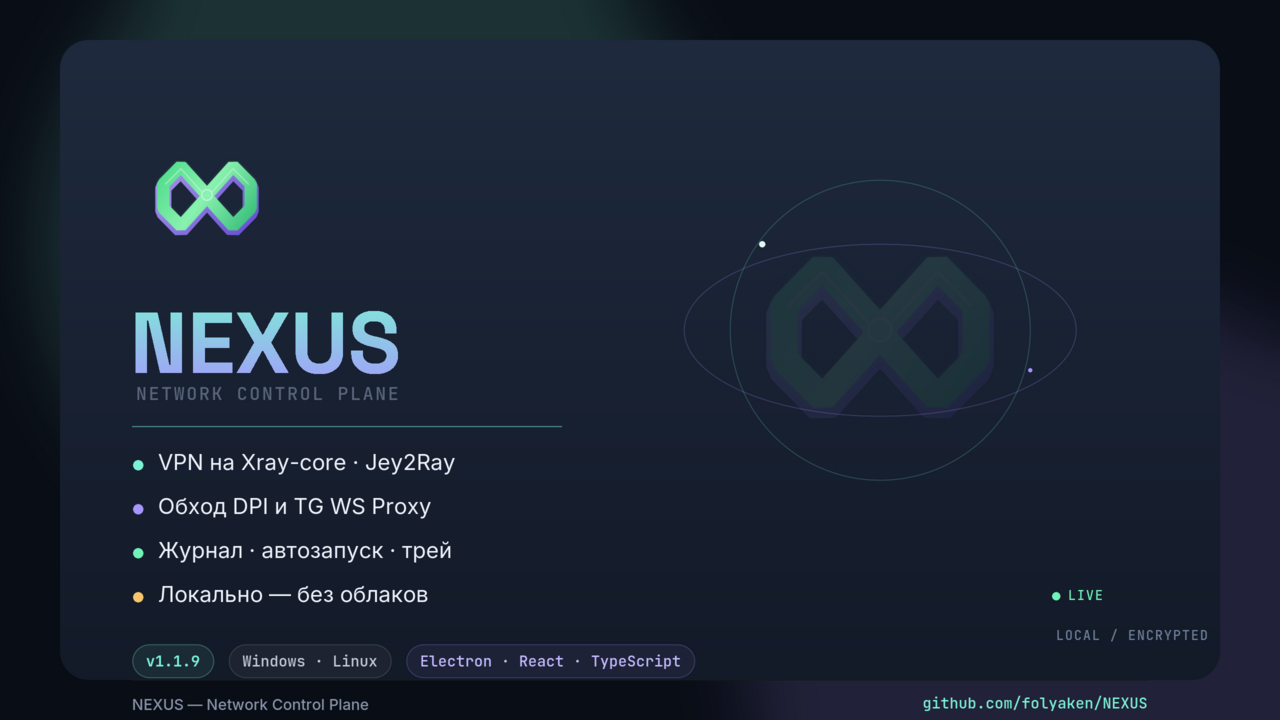
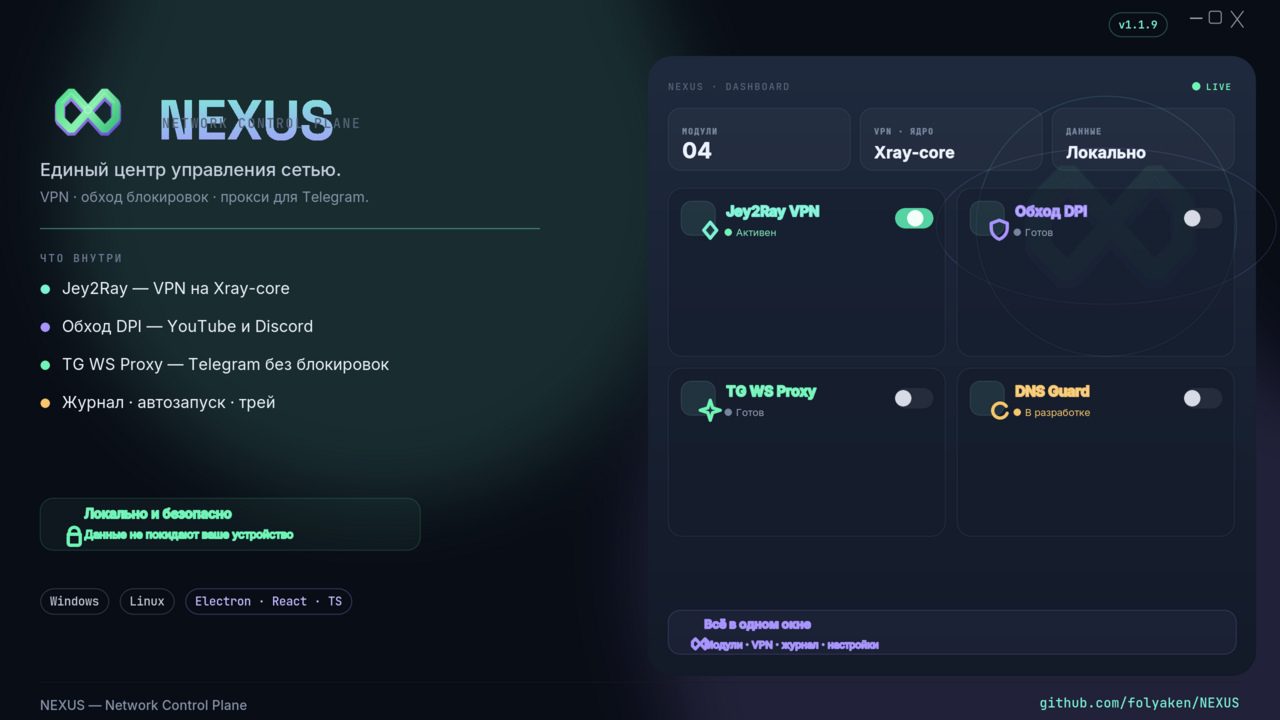
Richer welcome card: app window bar + mini dashboard panel

diff --git a/tools/render_card.js b/tools/render_card.js
@@ -1,0 +1,293 @@
+/* NEXUS welcome card (first post / channel face) — 1280x720, brand-faithful.
+   Richer layout: app window bar + brand + features + mini-dashboard panel. */
+const { execFileSync } = require('child_process');
+const fs = require('fs');
+const path = require('path');
+
+const REPO = path.join(__dirname, '..');
+const FD = path.join(__dirname, 'fonts');
+const LOGO = path.join(REPO, 'brand', 'nexus-symbol-transparent.png');
+const OUT = path.join(REPO, 'promo', 'nexus-card.png');
+const TMP = '/tmp/nexus_card';
+fs.mkdirSync(TMP, { recursive: true });
+fs.mkdirSync(path.dirname(OUT), { recursive: true });
+
+const F = {
+  sgB: path.join(FD, 'SpaceGrotesk-Bold.ttf'),
+  sgM: path.join(FD, 'SpaceGrotesk-Medium.ttf'),
+  interR: path.join(FD, 'Inter-Regular.ttf'),
+  interM: path.join(FD, 'Inter-Medium.ttf'),
+  interSB: path.join(FD, 'Inter-SemiBold.ttf'),
+  interB: path.join(FD, 'Inter-Bold.ttf'),
+  interEB: path.join(FD, 'Inter-ExtraBold.ttf'),
+  monoR: path.join(FD, 'JBMono-Regular.ttf'),
+  monoM: path.join(FD, 'JBMono-Medium.ttf'),
+  monoB: path.join(FD, 'JBMono-Bold.ttf'),
+};
+
+const C = {
+  bg: '#090d16', bar: '#17191f', text: '#edf2fb', soft: '#d6deec',
+  muted: '#8994a9', muted2: '#59657a', kicker: '#71809a',
+  cyan: '#7cf2d5', violet: '#a895ff', mint: '#71f4b8', amber: '#f8c76c',
+};
+
+const S = (v) => Math.round(v * 2);
+const W = 2560, H = 1440;
+
+function run(args, out) { execFileSync('convert', out ? args.concat(out) : args, { stdio: 'inherit' }); }
+function sizeOf(f) { return execFileSync('identify', ['-format', '%w %h', f], { encoding: 'utf8' }).trim().split(/\s+/).map(Number); }
+const tmp = (n) => path.join(TMP, n + '.png');
+function over(base, layer, x, y, out) {
+  run([base, '(', layer, ')', '-geometry', `+${S(x)}+${S(y)}`, '-composite', out || base]);
+}
+function gradText(out, label, font, size, from, to) {
+  const mask = tmp('_gm'), grad = tmp('_gg');
+  run(['-background', 'none', '-fill', 'white', '-font', font, '-pointsize', String(S(size)),
+    '-gravity', 'center', `label:${label}`, mask]);
+  const [w, h] = sizeOf(mask);
+  run(['-size', `${w}x${h}`, `gradient:${from}-${to}`, grad]);
+  run([grad, mask, '-alpha', 'off', '-compose', 'CopyOpacity', '-composite', out]);
+  return [w, h];
+}
+function pill(out, label, font, size, fg, accent) {
+  const text = tmp('_pt');
+  run(['-background', 'none', '-fill', fg, '-font', font, '-pointsize', String(S(size)),
+    '-gravity', 'center', `label:${label}`, text]);
+  const [tw, th] = sizeOf(text);
+  const pad = S(10), w = tw + pad * 2, h = th + S(10);
+  run(['-size', `${w}x${h}`, 'xc:none', '-fill', 'none', '-stroke', accent, '-strokewidth', '2',
+    '-draw', `roundrectangle 1,1 ${w - 2},${h - 2} ${h / 2},${h / 2}`, out]);
+  run([out, text, '-gravity', 'center', '-compose', 'over', '-composite', out]);
+}
+
+/* draw-op state machine */
+let A = null;
+const op = (...a) => A.push(...a);
+function fill(c) { op('-fill', c); }
+function stroke(c, w) { op('-stroke', c); if (w != null) op('-strokewidth', String(w)); }
+function rrect(x, y, w, h, r) { op('-draw', `roundrectangle ${S(x)},${S(y)} ${S(x + w)},${S(y + h)} ${S(r)},${S(r)}`); }
+function rect(x, y, w, h) { op('-draw', `rectangle ${S(x)},${S(y)} ${S(x + w)},${S(y + h)}`); }
+function line(x1, y1, x2, y2) { op('-draw', `line ${S(x1)},${S(y1)} ${S(x2)},${S(y2)}`); }
+function circle(cx, cy, rad) { op('-draw', `circle ${S(cx)},${S(cy)} ${S(cx + rad)},${S(cy)}`); }
+function ellipse(cx, cy, rx, ry) { op('-draw', `ellipse ${S(cx)},${S(cy)} ${S(rx)},${S(ry)} 0,360`); }
+function txt(x, y, size, a, b, str, kerning = 0) {
+  const [font, color] = String(a).includes('.ttf') || String(a).includes('/fonts/') ? [a, b] : [b, a];
+  fill(color);
+  if (kerning) op('-kerning', String(kerning * 2));
+  op('-font', font, '-pointsize', String(S(size)));
+  op('-draw', `text ${S(x)},${S(y)} '${str.replace(/'/g, '')}'`);
+  if (kerning) op('-kerning', '0');
+}
+function glyph(x, y, sizePx, color, strokeW, body) {
+  stroke(color, strokeW * 2); op('-fill', 'none');
+  op('-draw', `stroke-linecap round stroke-linejoin round translate ${S(x)},${S(y)} scale ${S(sizePx / 24)},${S(sizePx / 24)} ${body}`);
+}
+function flush(out) { run(A, out); }
+
+const SVG = {
+  nexus: `path 'M4.2 13.6v-4l3-3 4.8 5.2 4.8-5.2 3 3v4l-3 3-4.8-5.2-4.8 5.2-3-3Z'`,
+  shield: `path 'M12 2l8 3v5c0 5-3.4 9.4-8 11-4.6-1.6-8-6-8-11V5z'`,
+  diamond: `path 'M12 4l6.5 8L12 20l-6.5-8z'`,
+  star4: `path 'M12 2l2.4 7.6L22 12l-7.6 2.4L12 22l-2.4-7.6L2 12l7.6-2.4z'`,
+  refresh: `path 'M19 8a7.5 7.5 0 1 0 .9 7'`,
+  lock: `path 'M7 10V8a5 5 0 0 1 10 0v2M6 10h12v9a2 2 0 0 1-2 2H8a2 2 0 0 1-2-2z'`,
+};
+
+/* ================= BUILD ================= */
+const canvas = tmp('card');
+run(['-size', `${W}x${H}`, 'xc:' + C.bg, canvas]);
+
+// ambient glows
+const glow = tmp('_glow');
+run(['-size', `${W}x${H}`, 'xc:none', glow]);
+run([glow, '-fill', 'rgba(124,242,213,0.14)',
+  '-draw', `circle ${S(380)},${S(180)} ${S(380 + 320)},${S(180)}`, glow]);
+run([glow, '-fill', 'rgba(168,149,255,0.15)',
+  '-draw', `circle ${S(980)},${S(560)} ${S(980 + 340)},${S(560)}`, glow]);
+run([glow, '-blur', '0x70', glow]);
+over(canvas, glow, 0, 0, canvas);
+
+/* ---- window bar ---- */
+A = [canvas];
+fill(C.bar); stroke('none'); rect(0, 0, 1280, 36);
+stroke('rgba(255,255,255,0.07)', 2); line(0, 36, 1280, 36);
+// brand mark
+fill('rgba(124,242,213,0.1)'); stroke('rgba(124,242,213,0.3)', 2); rrect(12, 9, 18, 18, 6);
+glyph(21, 18, 13, C.cyan, 1.5, SVG.nexus);
+txt(40, 23, 10, F.sgB, '#cbd3df', 'NEXUS', 1.2);
+txt(88, 23, 10, F.interR, '#8d96a8', '/');
+txt(98, 23, 10, F.interR, '#8d96a8', 'Network Control Plane');
+// version pill
+pill(tmp('_verpill'), 'v1.1.9', F.monoB, 11, C.cyan, 'rgba(124,242,213,0.28)');
+const [vpw] = sizeOf(tmp('_verpill'));
+over(canvas, tmp('_verpill'), 1168 - vpw / 2, 12, canvas);
+// window controls
+A = [canvas];
+stroke('#919baa', 2.5);
+line(1190, 18, 1202, 18);
+stroke('#919baa', 2); op('-fill', 'none'); rrect(1209, 11, 12, 12, 2);
+line(1231, 11, 1243, 27); line(1243, 11, 1231, 27);
+flush(canvas);
+
+/* ---- left column ---- */
+const LX = 40;
+// logo
+run([LOGO, '-resize', `${S(96)}x${S(96)}`, tmp('_logo')]);
+over(canvas, tmp('_logo'), LX, 62, canvas);
+// wordmark
+A = [canvas];
+gradText(tmp('_wm'), 'NEXUS', F.sgB, 56, '#7cf2d5', '#a895ff');
+over(canvas, tmp('_wm'), LX + 118, 84, canvas);
+// subtitle
+A = [canvas];
+txt(LX + 122, 128, 13, F.monoM, C.muted2, 'NETWORK CONTROL PLANE', 1.5);
+// tagline
+txt(LX, 176, 18, F.interM, '#c6d0de', 'Единый центр управления сетью.');
+txt(LX, 202, 14, F.interR, C.muted, 'VPN · обход блокировок · прокси для Telegram.');
+flush(canvas);
+
+// divider
+A = [canvas];
+run(['-size', `${S(500)}x${S(2)}`, 'gradient:rgba(124,242,213,0.5)-rgba(124,242,213,0)', tmp('_rule')]);
+over(canvas, tmp('_rule'), LX, 228, canvas);
+
+// features
+A = [canvas];
+txt(LX, 262, 11, F.monoM, C.kicker, 'ЧТО ВНУТРИ', 1.8);
+const feats = [
+  { c: C.cyan, t: 'Jey2Ray — VPN на Xray-core' },
+  { c: C.violet, t: 'Обход DPI — YouTube и Discord' },
+  { c: C.mint, t: 'TG WS Proxy — Telegram без блокировок' },
+  { c: C.amber, t: 'Журнал · автозапуск · трей' },
+];
+feats.forEach((f, i) => {
+  const y = 294 + i * 38;
+  fill(f.c); stroke('none'); circle(LX + 5, y - 5, 4.5);
+  txt(LX + 22, y, 16, F.interR, C.text, f.t);
+});
+flush(canvas);
+
+// privacy note (bottom-left)
+A = [canvas];
+fill('rgba(113,244,184,0.05)'); stroke('rgba(113,244,184,0.14)', 2);
+rrect(LX, 498, 380, 52, 13);
+glyph(LX + 22, 524, 20, C.mint, 1.6, SVG.lock);
+txt(LX + 44, 518, 13, '#d8f8e9', F.interSB, 'Локально и безопасно');
+txt(LX + 44, 538, 11, '#708b86', F.interR, 'Данные не покидают ваше устройство');
+flush(canvas);
+
+// badges
+A = [canvas];
+pill(tmp('_b1'), 'Windows', F.monoM, 12, '#c3cbd8', 'rgba(255,255,255,0.16)');
+pill(tmp('_b2'), 'Linux', F.monoM, 12, '#c3cbd8', 'rgba(255,255,255,0.16)');
+pill(tmp('_b3'), 'Electron · React · TS', F.monoM, 12, '#c4baff', 'rgba(168,149,255,0.28)');
+let bx = LX;
+over(canvas, tmp('_b1'), bx, 588, canvas);
+bx = LX + sizeOf(tmp('_b1'))[0] / 2 + 10;
+over(canvas, tmp('_b2'), bx, 588, canvas);
+bx = bx + sizeOf(tmp('_b2'))[0] / 2 + 10;
+over(canvas, tmp('_b3'), bx, 588, canvas);
+
+/* ---- right panel: mini dashboard ---- */
+const PX = 648, PY = 56, PW = 608, PH = 620;
+const pg = tmp('_panel');
+run(['-size', `${S(PW)}x${S(PH)}`, `gradient:rgba(31,42,62,0.6)-rgba(19,26,40,0.6)`, pg]);
+const pmask = tmp('_pm');
+run(['-size', `${S(PW)}x${S(PH)}`, 'xc:black', '-fill', 'white',
+  '-draw', `roundrectangle 0,0 ${S(PW) - 1},${S(PH) - 1} ${S(24)},${S(24)}`, pmask]);
+run([pg, pmask, '-alpha', 'off', '-compose', 'CopyOpacity', '-composite', pg]);
+over(canvas, pg, PX, PY, canvas);
+
+// orbit watermark behind panel content
+run([LOGO, '-resize', `${S(250)}x${S(250)}`, '-channel', 'A', '-evaluate', 'multiply', '0.07', '+channel', tmp('_wmbig')]);
+over(canvas, tmp('_wmbig'), PX + PW - 250 - 20, PY + 40, canvas);
+A = [canvas];
+stroke('rgba(122,241,216,0.14)', 2); op('-fill', 'none');
+ellipse(PX + PW - 150, PY + 170, 130, 130);
+stroke('rgba(168,149,255,0.16)', 2);
+ellipse(PX + PW - 150, PY + 170, 170, 78);
+flush(canvas);
+
+// panel header
+A = [canvas];
+txt(PX + 20, PY + 34, 10, F.monoM, C.muted2, 'NEXUS · DASHBOARD', 1.2);
+fill(C.mint); stroke('none'); circle(PX + PW - 60, PY + 30, 4);
+txt(PX + PW - 50, PY + 34, 9, C.mint, F.monoB, 'LIVE', 1);
+flush(canvas);
+
+// stat strip (3 mini cards)
+const sx = PX + 20, sy = PY + 52, scw = 182, sch = 62, sgap = 10;
+const stats = [
+  { l: 'МОДУЛИ', v: '04', c: C.cyan },
+  { l: 'VPN · ЯДРО', v: 'Xray-core', c: C.violet, small: true },
+  { l: 'ДАННЫЕ', v: 'Локально', c: C.mint, small: true },
+];
+A = [canvas];
+stats.forEach((s, i) => {
+  const x = sx + i * (scw + sgap);
+  fill('rgba(255,255,255,0.03)'); stroke('rgba(255,255,255,0.06)', 2);
+  rrect(x, sy, scw, sch, 12);
+  txt(x + 14, sy + 26, 8, F.monoM, C.kicker, s.l, 1);
+  txt(x + 14, sy + 50, s.small ? 16 : 22, F.interB, '#ecf3ff', s.v);
+});
+flush(canvas);
+
+// module grid 2x2
+const mx = PX + 20, my = PY + 132, mw = 277, mh = 168, mgap = 12;
+const mods = [
+  { n: 'Jey2Ray VPN', s: 'Активен', on: true, c: C.cyan, g: 'diamond' },
+  { n: 'Обход DPI', s: 'Готов', on: false, c: C.violet, g: 'shield' },
+  { n: 'TG WS Proxy', s: 'Готов', on: false, c: C.mint, g: 'star4' },
+  { n: 'DNS Guard', s: 'В разработке', on: false, c: C.amber, g: 'refresh' },
+];
+const glyphMap = { diamond: SVG.diamond, shield: SVG.shield, star4: SVG.star4, refresh: SVG.refresh };
+A = [canvas];
+mods.forEach((m, i) => {
+  const x = mx + (i % 2) * (mw + mgap), y = my + Math.floor(i / 2) * (mh + mgap);
+  fill('rgba(21,29,44,0.55)'); stroke('rgba(255,255,255,0.06)', 2);
+  rrect(x, y, mw, mh, 14);
+  // icon
+  fill('rgba(124,242,213,0.1)'); stroke('rgba(255,255,255,0.08)', 2);
+  rrect(x + 13, y + 13, 34, 34, 10);
+  stroke(m.c, 2.5); op('-fill', 'none');
+  glyph(x + 30, y + 30, 20, m.c, 1.6, glyphMap[m.g]);
+  // name
+  txt(x + 58, y + 28, 14, F.interB, '#eaf1fc', m.n);
+  // status
+  const sc = m.on ? C.mint : (m.s === 'В разработке' ? C.amber : '#78849d');
+  fill(sc); stroke('none'); circle(x + 60, y + 44, 3.5);
+  txt(x + 68, y + 48, 10, sc === C.mint ? '#82e9bd' : sc === C.amber ? C.amber : '#9aa7ba', F.interR, m.s);
+  // toggle
+  const tx = x + mw - 50, ty = y + 20;
+  fill(m.on ? 'rgba(92,231,176,0.9)' : '#252d3c'); stroke('none');
+  rrect(tx, ty, 38, 20, 10);
+  const kx = m.on ? tx + 20 : tx + 8;
+  fill(m.on ? '#f3fffa' : '#d6dbe6');
+  circle(kx, ty + 10, 8);
+});
+flush(canvas);
+
+// panel bottom note
+A = [canvas];
+fill('rgba(168,149,255,0.06)'); stroke('rgba(168,149,255,0.16)', 2);
+rrect(PX + 20, PY + PH - 66, PW - 40, 44, 12);
+glyph(PX + 40, PY + PH - 44, 18, C.violet, 1.6, SVG.nexus);
+txt(PX + 56, PY + PH - 48, 12, '#d3caff', F.interSB, 'Всё в одном окне');
+txt(PX + 56, PY + PH - 28, 10, '#8b83ad', F.interR, 'Модули · VPN · журнал · настройки');
+flush(canvas);
+
+/* ---- footer ---- */
+A = [canvas];
+stroke('rgba(255,255,255,0.06)', 2); line(40, 682, 1240, 682);
+stroke('none');
+txt(40, 710, 13, F.interM, C.muted, 'NEXUS — Network Control Plane');
+flush(canvas);
+const gh = tmp('_gh');
+run(['-background', 'none', '-font', F.monoM, '-pointsize', String(S(13)), '-fill', C.cyan,
+  '-gravity', 'center', 'label:github.com/folyaken/NEXUS', gh]);
+const [ghw, ghh] = sizeOf(gh);
+run([canvas, '(', gh, ')', '-geometry', `+${S(1240) - ghw}+${Math.round(S(703) - ghh / 2)}`, '-composite', canvas]);
+
+// downscale
+run([canvas, '-resize', '1280x720', OUT]);
+console.log('wrote', OUT, sizeOf(OUT).join('x'));
